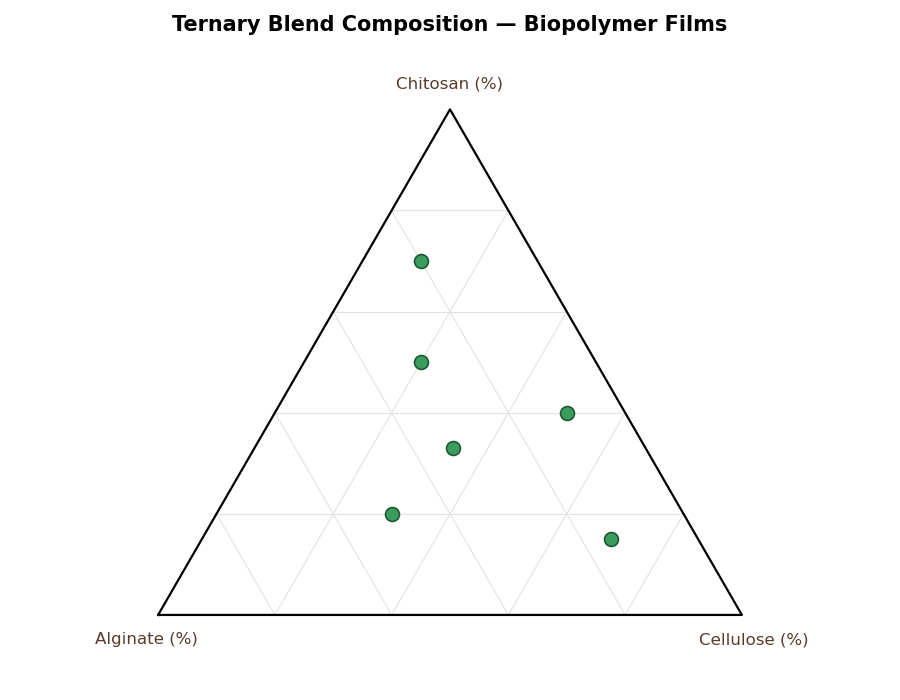
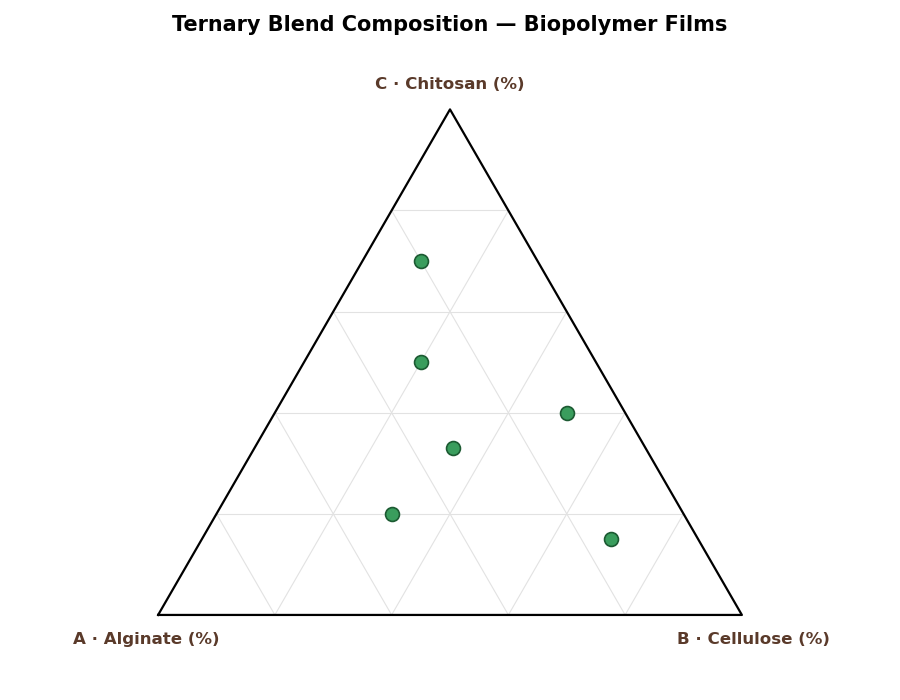
Examples: make the map/ternary/CCR calibration examples teach their models
Walkthrough finding: the map, ternary and CCR bundled examples misled first-run
users about their (subtle) calibration models. Regenerated so a natural
calibration reads correctly:

- Map: was a lat/lon GRIDDED-AXES plot assigned to the scale-bar Map type (wrong
  model). Now a real scale-bar map — a 200 km reference bar, a landmass + sites,
  no numeric axes, drawn edge-to-edge so the image corner IS the (0,0) origin.
  Calibrate on the bar with origin = bottom-left -> each site reads in km from
  the corner. Truth = site (x_km, y_km).
- Ternary: interior points came out with a NEGATIVE third component because the
  corners were clicked in the wrong winding. The math needs A->B then C 60° CCW
  = bottom-left -> bottom-right -> top. Corners are now labelled A/B/C in that
  order (verified: yields all-positive components summing to 100). Truth remapped
  to the resulting a/b/c = Alginate/Cellulose/Chitosan.
- CCR: dial relabelled in HOURS (was degrees) so the time->angle mapping is
  self-evident; truth note documents the time-format start (0:00) + rotation=day
  so extracted Time reads as a clock time, not a raw number.

No test references these examples. gen_samples.py + the three PNG/.truth.json.

Changed region(s): [[0.4356, 0.09, 0.5911, 0.15], [0.7467, 0.9, 0.9333, 0.93], [0.0622, 0.9, 0.2489, 0.93]]

diff --git a/samples/generators/gen_samples.py b/samples/generators/gen_samples.py
@@ -370,11 +370,15 @@ def gen_ccr():
     ax.plot(tc, rc, "-", color=NAVY, linewidth=1.8)
     ax.set_rmin(0)
     ax.set_rmax(30)
+    # Label the dial in HOURS, not degrees — a chart recorder's angular axis is
+    # time (one 24 h rotation), which is what the CCR calibration reads. 0 h at
+    # the top (N), clockwise. This makes the time->angle mapping self-evident.
+    ax.set_thetagrids(list(range(0, 360, 30)), labels=[f"{int(a / 360 * 24)} h" for a in range(0, 360, 30)])
     ax.set_title("24 h temperature recording (°C)", fontsize=15)
     fig.tight_layout()
     _save(fig, name)
     _write_truth(name, {
-        "source": {"imagePath": name + ".png", "note": "Synthetic ground truth — (time h, temperature °C) samples; time maps to angle over one 24 h rotation."},
+        "source": {"imagePath": name + ".png", "note": "Synthetic ground truth — (time h, temperature C) samples; time maps to angle over one 24 h rotation. Calibrate with a time-format start (e.g. 0:00) and rotation = day, direction = clockwise, so the extracted Time reads back as a clock time rather than a raw number."},
         "graphType": "ccr",
         "axes": {"time": {"label": "Time", "min": 0, "max": 24, "unit": "h"},
                  "radius": {"label": "Temperature (°C)", "min": 0, "max": 30}},
@@ -480,9 +484,14 @@ def gen_ternary():
     for _, a, b, c in blends:
         p = bary(a, b, c)
         ax.plot(p[0], p[1], "o", markersize=10, markerfacecolor="#3a9d5d", markeredgecolor="#1c5a32", markeredgewidth=1.2, zorder=3)
-    ax.text(T[0], T[1] + 0.03, "Chitosan (%)", ha="center", va="bottom", fontsize=12, color="#5a3a2a")
-    ax.text(L[0] - 0.02, L[1] - 0.03, "Alginate (%)", ha="center", va="top", fontsize=12, color="#5a3a2a")
-    ax.text(Rr[0] + 0.02, Rr[1] - 0.03, "Cellulose (%)", ha="center", va="top", fontsize=12, color="#5a3a2a")
+    # Corner labels carry an A/B/C calibration marker in the ORDER the app's
+    # ternary math needs the corners clicked (bottom-left -> bottom-right -> top;
+    # verified: this winding yields all-positive components summing to 100). So
+    # A=bottom-left=Alginate, B=bottom-right=Cellulose, C=top=Chitosan, and the
+    # app's a/b/c come out as Alginate/Cellulose/Chitosan.
+    ax.text(T[0], T[1] + 0.03, "C · Chitosan (%)", ha="center", va="bottom", fontsize=12, color="#5a3a2a", fontweight="bold")
+    ax.text(L[0] - 0.02, L[1] - 0.03, "A · Alginate (%)", ha="center", va="top", fontsize=12, color="#5a3a2a", fontweight="bold")
+    ax.text(Rr[0] + 0.02, Rr[1] - 0.03, "B · Cellulose (%)", ha="center", va="top", fontsize=12, color="#5a3a2a", fontweight="bold")
     ax.set_title("Ternary Blend Composition — Biopolymer Films", fontsize=15, fontweight="bold")
     ax.set_xlim(-0.12, 1.12)
     ax.set_ylim(-0.12, h + 0.12)
@@ -491,53 +500,63 @@ def gen_ternary():
     fig.tight_layout()
     _save(fig, name)
     _write_truth(name, {
-        "source": {"imagePath": name + ".png", "note": "Synthetic ground truth — three corner values per blend (measured off the prior exemplar, replotted). a/b/c match the app's ternary labels."},
+        "source": {"imagePath": name + ".png", "note": "Synthetic ground truth. a/b/c follow the app's ternary calibration order A->B->C = bottom-left(Alginate) -> bottom-right(Cellulose) -> top(Chitosan)."},
         "graphType": "ternary",
-        "axes": {"a": {"label": "Chitosan (%)", "vertex": "top"},
-                 "b": {"label": "Alginate (%)", "vertex": "bottom-left"},
-                 "c": {"label": "Cellulose (%)", "vertex": "bottom-right"}},
-        "series": [{"name": "blends", "points": [{"a": a, "b": b, "c": c} for _, a, b, c in blends]}],
+        "axes": {"a": {"label": "Alginate (%)", "vertex": "bottom-left", "corner": "A"},
+                 "b": {"label": "Cellulose (%)", "vertex": "bottom-right", "corner": "B"},
+                 "c": {"label": "Chitosan (%)", "vertex": "top", "corner": "C"}},
+        # tuple order is (Chitosan a_top, Alginate b_left, Cellulose c_right); the
+        # app's a/b/c are (Alginate, Cellulose, Chitosan) = (b, c, a).
+        "series": [{"name": "blends", "points": [{"a": b, "b": c, "c": a} for _, a, b, c in blends]}],
     })
 
 
 def gen_map():
-    """Field-survey map — sample collection sites on a Longitude/Latitude plane
-    (the Map axes type: an image with a geographic coordinate calibration). The 4
-    site coordinates were MEASURED off the previous throwaway exemplar (its axes
-    rectangle spans exactly the data limits) and replotted (David, 2026-07-20). A
-    green landmass polygon is drawn as decoration; the record is the sites. Truth
-    = each site's (longitude, latitude)."""
-    name = "map-collection-sites"
-    sites = [("Site A", -3.7, 40.4), ("Site B", 2.4, 48.9), ("Site C", 4.9, 52.4), ("Site D", 7.6, 51.9)]
-    land = [(-8, 43), (-6, 48), (-5, 47), (-2, 51), (2, 52), (5, 50), (7.5, 53), (9, 48), (6, 45), (3, 44), (-3, 41)]
+    """Field-survey map with a SCALE BAR — the Map axes type is a *scale-bar*
+    model (uniform distance/pixel from a corner origin), NOT gridded x/y axes. So
+    this figure has a 200 km scale bar and no numeric axes: you place the two
+    calibration points on the bar, pick a corner as origin, and every feature
+    reads out in km from that corner.
 
-    fig, ax = plt.subplots(figsize=(9, 7), dpi=100)
+    The axes fill the whole figure edge-to-edge (add_axes([0,0,1,1]) + equal
+    aspect), so the image's bottom-left pixel IS the (0,0) origin and a site's
+    "km from corner" equals its plotted km position -> truth = each site's
+    (x_km, y_km). A green landmass polygon is decoration; the record is the
+    sites."""
+    name = "map-collection-sites"
+    W, H = 1000.0, 800.0  # km extent; origin (0,0) at the image's bottom-left
+    sites = [("Site A", 180, 130), ("Site B", 470, 300), ("Site C", 700, 560), ("Site D", 860, 470)]
+    land = [(70, 250), (170, 470), (280, 430), (430, 560), (560, 600), (700, 520),
+            (840, 630), (910, 430), (760, 300), (520, 250), (180, 160)]
+
+    fig = plt.figure(figsize=(W / 100, H / 100), dpi=100)
     fig.patch.set_facecolor("white")
+    ax = fig.add_axes([0, 0, 1, 1])  # fill the figure: image corner == (0,0) km
+    ax.set_xlim(0, W)
+    ax.set_ylim(0, H)
+    ax.set_aspect("equal")  # square pixels — the Map model's uniform-scale assumption
     ax.set_facecolor("#eef4fb")  # sea
-    poly = plt.Polygon(land, closed=True, facecolor="#d7e8c9", edgecolor="#8fae74", linewidth=1.4, zorder=1)
-    ax.add_patch(poly)
-    for label, lon, lat in sites:
-        ax.plot(lon, lat, "o", markersize=9, markerfacecolor="#d9463e", markeredgecolor="#7a2019", markeredgewidth=1.0, zorder=3)
-        ax.annotate(f" {label}", (lon, lat), fontsize=11, va="center", zorder=4)
-    ax.set_xlim(-10, 10)
-    ax.set_ylim(40, 55)
-    ax.set_xticks(range(-10, 11, 5))
-    ax.set_yticks(range(40, 56, 5))
-    ax.set_xticklabels([f"{v}°" for v in range(-10, 11, 5)])
-    ax.set_yticklabels([f"{v}°" for v in range(40, 56, 5)])
-    ax.set_xlabel("Longitude", fontsize=13)
-    ax.set_ylabel("Latitude", fontsize=13)
-    ax.set_title("Sample Collection Sites — Field Survey Map", fontsize=15, fontweight="bold")
-    ax.grid(True, color="#cfd9e6", linewidth=0.8, zorder=0)
-    ax.tick_params(labelsize=11)
-    fig.tight_layout()
+    ax.add_patch(plt.Polygon(land, closed=True, facecolor="#d7e8c9", edgecolor="#8fae74", linewidth=1.6, zorder=1))
+    for label, x, y in sites:
+        ax.plot(x, y, "o", markersize=11, markerfacecolor="#d9463e", markeredgecolor="#7a2019", markeredgewidth=1.2, zorder=3)
+        ax.annotate(f"  {label}", (x, y), fontsize=13, va="center", zorder=4)
+    # Scale bar: a 200 km reference with end caps + label (the calibration target).
+    sx, sy, slen = 90, 70, 200.0
+    ax.plot([sx, sx + slen], [sy, sy], color="black", linewidth=3, zorder=5)
+    for xx in (sx, sx + slen):
+        ax.plot([xx, xx], [sy - 12, sy + 12], color="black", linewidth=3, zorder=5)
+    ax.text(sx + slen / 2, sy + 20, "200 km", ha="center", va="bottom", fontsize=13, fontweight="bold", zorder=5)
+    ax.text(W / 2, H - 30, "Sample Collection Sites — Field Survey Map", ha="center", va="top", fontsize=16, fontweight="bold", zorder=5)
+    ax.set_xticks([])
+    ax.set_yticks([])
     _save(fig, name)
     _write_truth(name, {
-        "source": {"imagePath": name + ".png", "note": "Synthetic ground truth — each site's (longitude, latitude), measured off the prior exemplar and replotted. The landmass polygon is decoration."},
+        "source": {"imagePath": name + ".png", "note": "Synthetic ground truth — each site's (x, y) in km from the bottom-left corner (the Map origin). Calibrate on the 200 km scale bar with origin = bottom-left; the axes fill the image so the corner is (0,0). The landmass is decoration."},
         "graphType": "map",
-        "axes": {"x": {"label": "Longitude", "min": -10, "max": 10, "unit": "deg"},
-                 "y": {"label": "Latitude", "min": 40, "max": 55, "unit": "deg"}},
-        "series": [{"name": "collection sites", "points": [{"name": s, "x": lon, "y": lat} for s, lon, lat in sites]}],
+        "axes": {"scaleBar": {"length": 200, "unit": "km"}, "origin": "bottom-left",
+                 "x": {"label": "Easting", "min": 0, "max": W, "unit": "km"},
+                 "y": {"label": "Northing", "min": 0, "max": H, "unit": "km"}},
+        "series": [{"name": "collection sites", "points": [{"name": s, "x": float(x), "y": float(y)} for s, x, y in sites]}],
     })
 
 